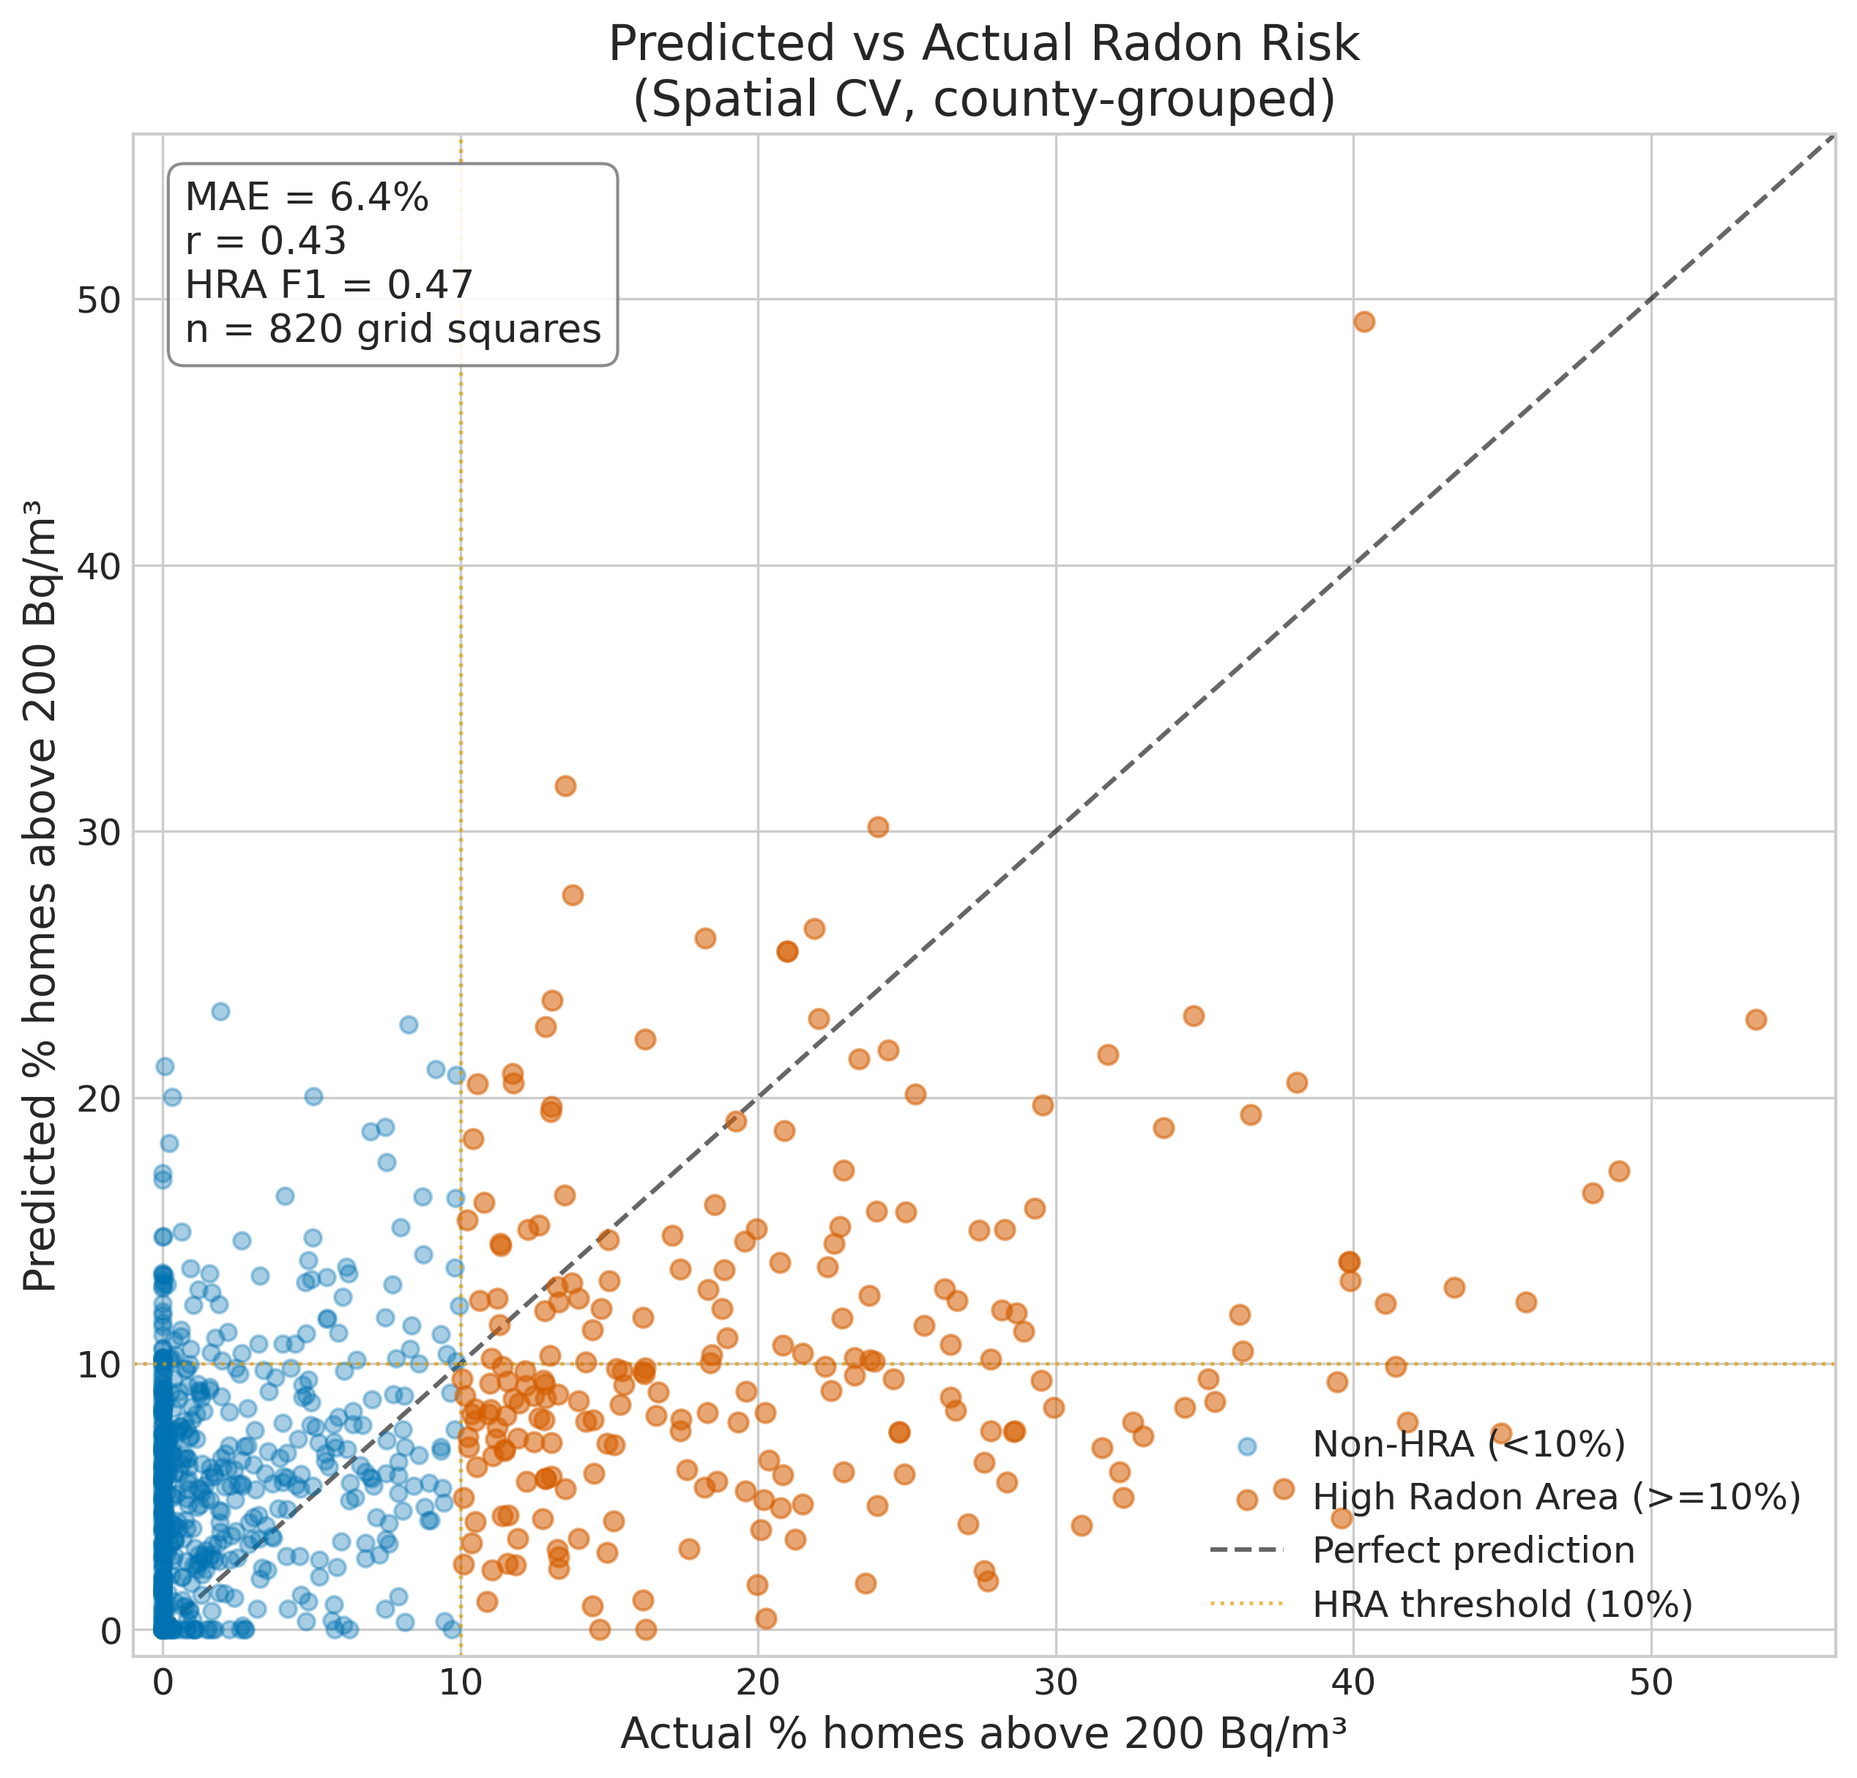
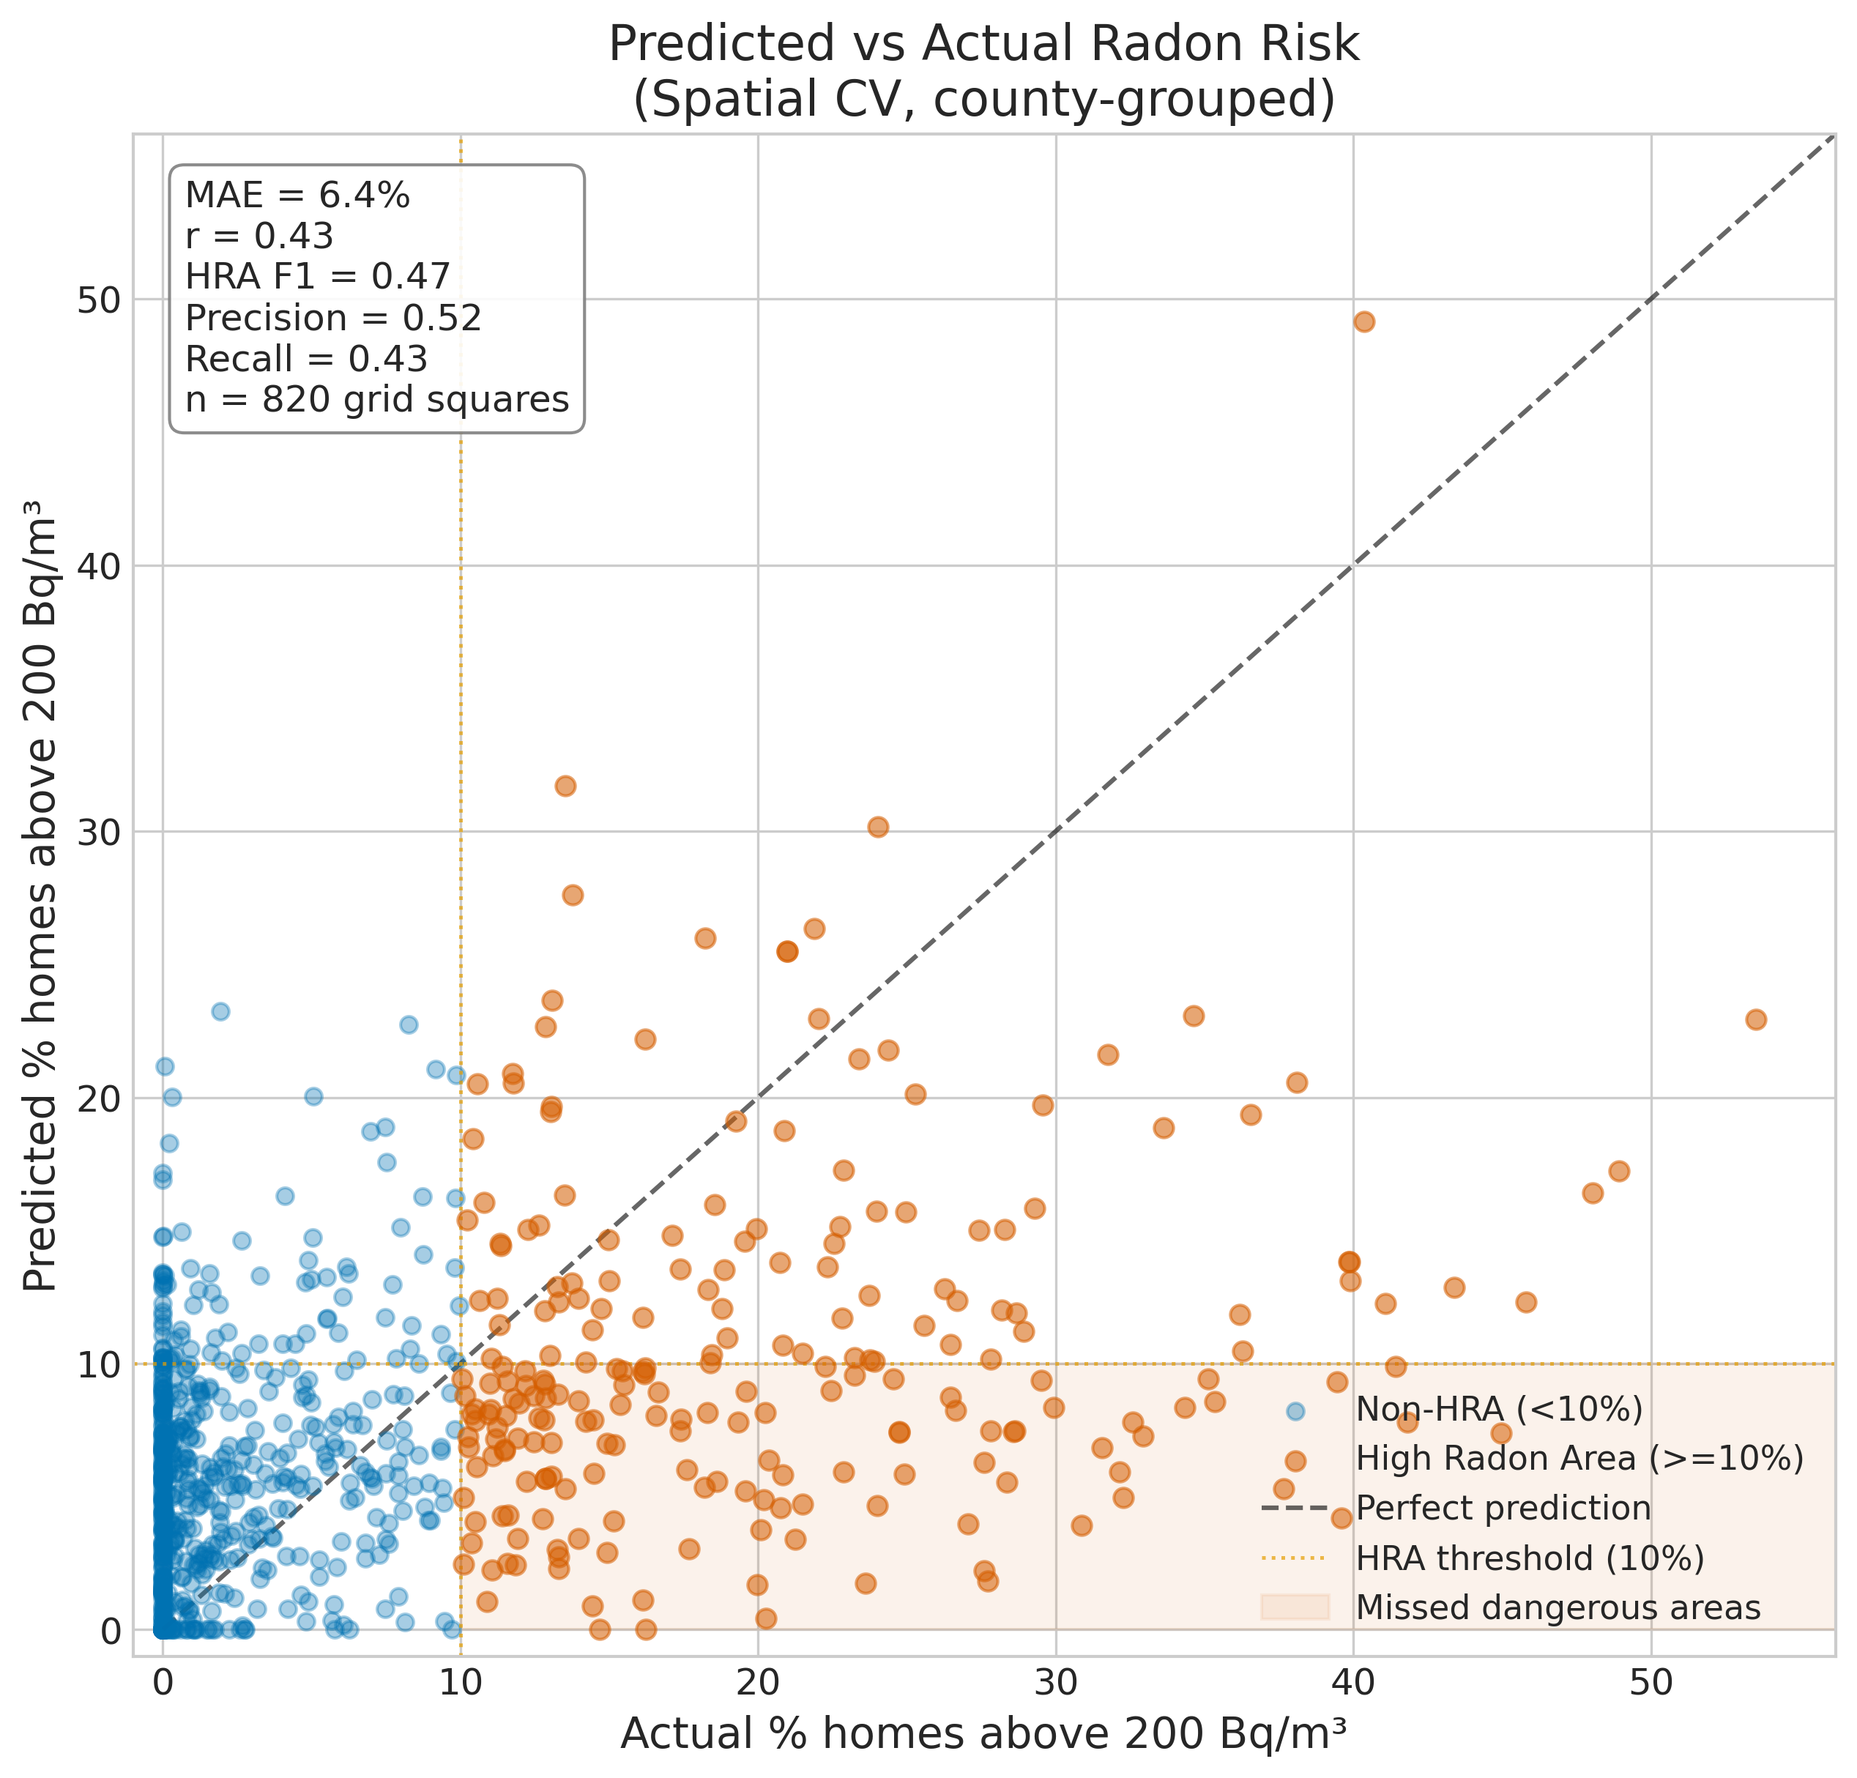
Rewrite irish-radon summary to reflect honest reviewed analysis
Summary now leads with the model's limitations (F1=0.47, misses 57% of
dangerous areas, 25pp underprediction of worst zones) rather than
presenting it as a working screening tool. Headline finding about
lithology vs radiometrics caveated as possibly confounded by degraded
Tellus data. New plots: SHAP importance, threshold sensitivity. Updated
pred_vs_actual with precision/recall stats.

Changed region(s): [[0.6542, 0.7722, 0.9657, 0.9267], [0.0935, 0.0927, 0.3427, 0.2471]]

diff --git a/content/hdr/results/irish-radon/index.md b/content/hdr/results/irish-radon/index.md
@@ -1,8 +1,8 @@
 ---
-title: "Ireland's Radon Map Misses the Most Dangerous Combination: Granite Under Glacial Soil"
+title: "Geology Can Narrow Down Ireland's Radon Problem -- But Not Yet Solve It"
 date: 2026-04-10
 weight: 4
-blurb: "Radon kills about 250 Irish people a year, but only 3 percent of homes have been tested. We trained a model on real geological data to predict which areas are most dangerous. The strongest signal is not where the most uranium is -- it is where uranium-rich granite sits beneath glacial soil that was eroded from the same granite, creating a double source that no single measurement captures."
+blurb: "Radon kills about 250 Irish people a year, but only 3 percent of homes have been tested. We trained a model on real geological data to predict which 10-kilometre grid squares are most dangerous. It finds the right geological signals -- specific limestone formations, uranium-to-thorium ratios, and granite-till combinations -- but misses 57 percent of actual High Radon Areas and systematically underpredicts the most dangerous zones by up to 25 percentage points. An honest assessment of what public geological data can and cannot tell us about indoor radon."
 domain: "Environmental Science / Public Health"
 tags: ["radon", "Ireland", "geology", "Tellus", "public-health", "spatial-prediction", "gradient-boosting", "environmental-risk"]
 ---
@@ -11,52 +11,58 @@ tags: ["radon", "Ireland", "geology", "Tellus", "public-health", "spatial-predic
 
 ## The Question
 
-Radon is an invisible, odourless radioactive gas that seeps from the ground into buildings. It causes about 250 lung cancer deaths in Ireland every year, making it the second leading cause after smoking. The government designates "High Radon Areas" on a 10-kilometre grid, but that grid is too coarse to tell individual homeowners whether they are at risk. Worse, only about 3 percent of Irish homes have ever been tested.
+Radon is an invisible, odourless radioactive gas that seeps from the ground into buildings. It causes about 250 lung cancer deaths in Ireland every year -- the second leading cause after smoking. The government designates "High Radon Areas" on a 10-kilometre grid, but only about 3 percent of Irish homes have ever been tested.
 
-We asked a simpler question first: can the geological data that the government already collects -- airborne surveys of radioactivity, maps of bedrock and glacial soils -- predict which areas are dangerous without needing to test every house?
+We asked: can publicly available geological data -- airborne radioactivity surveys, bedrock maps, glacial soil maps -- predict which grid squares are dangerous without testing every house?
 
 ## What We Found
 
-Geology alone can identify High Radon Areas with reasonable accuracy, but the most powerful signal is not the one you would expect.
+The model identifies real geological signals, but it is not accurate enough to screen for radon risk on its own.
 
-- The airborne uranium survey (where a plane flies over Ireland measuring radioactivity from 56 metres up) is only the tenth most important predictor. Knowing the specific type of rock underneath matters far more than knowing how much uranium the plane detected.
-- The single most important predictor is whether the bedrock is a particular type of Carboniferous limestone -- a marine shelf facies with high permeability from ancient cave systems. These karst features act as underground highways for radon gas.
-- The third most important predictor is a combination feature we engineered: granite bedrock overlain by granite-derived glacial till. This is the "double source" -- the granite below produces radon, and the glacial soil above it (ground up from the same granite by ice sheets) produces more radon and is permeable enough to let it through.
-- The model reduces prediction error by 12 percent compared to a simple statistical baseline, tested under strict conditions that ensure no county's data leaks into another county's prediction.
+The headline number: F1 = 0.47 for classifying High Radon Areas, with precision of 0.52 and recall of 0.43. In plain terms, the model misses 57 percent of actual High Radon Areas. It finds barely half the dangerous zones and flags a fair number of safe ones as dangerous.
 
-![Predicted versus actual radon risk across Ireland's 10-kilometre grid](plots/pred_vs_actual.png)
+The failure is worst where it matters most. For the 32 grid squares where more than 30 percent of homes exceed the reference level -- the most dangerous areas in Ireland -- the model predicts a mean of only 13 percent. It underpredicts by 25 percentage points in exactly the places where accurate warnings are most needed.
 
-## Why That's Surprising
+![Predicted versus actual radon risk. The shaded region shows dangerous areas the model misses entirely.](plots/pred_vs_actual.png)
 
-Conventional wisdom in radon science says that airborne uranium measurements are the single best predictor of indoor radon. That is true at finer scales, where a high uranium reading over your specific plot of land means you probably have high radon. But at the 10-kilometre scale used by the Irish radon map, knowing the rock type is more informative than knowing the average uranium reading across the whole grid square.
+## What the Geology Tells Us
 
-This makes physical sense once you think about it. A grid square might have high average uranium because half of it is granite and half is sandstone. But the radon risk depends on where the houses are, not on the average. The rock type tells you about the mechanisms -- limestone with caves funnels radon through preferential pathways; granite with granitic till provides a double source -- while the average uranium reading washes out the detail.
+Despite the model's limitations as a screening tool, the feature analysis reveals which geological factors correlate most strongly with radon risk. We used SHAP values (a method that assigns each feature a contribution to each prediction) rather than the cruder gain-based importance that tree models report by default. The two methods give different answers, and the difference is instructive.
 
-The granite-till interaction is the most novel finding. Glacial till is the rubble left behind by ice sheets. When ice scraped across granite and deposited the debris, it created a layer of uranium-rich soil on top of uranium-rich rock. Both produce radon, and the till is permeable enough to let it reach the surface. This combination is found in parts of Wicklow, Carlow, and Galway, where the Leinster and Galway granite batholiths are covered by their own glacial debris.
+The strongest predictors by SHAP are geographic coordinates (east-west position is the single strongest feature), the uranium-to-thorium ratio from the airborne survey, and specific bedrock formations -- particularly Carboniferous marine shelf limestone, which has moderate uranium but high permeability from ancient cave systems that act as underground highways for the gas.
 
-![The geological hierarchy of Irish radon risk](plots/headline_finding.png)
+The granite-till combination is genuinely associated with elevated radon: the 17 grid squares where granite bedrock sits under granite-derived glacial soil have mean radon rates double the national average. The physical mechanism is sound -- the granite below produces radon, and the glacial soil above (ground from the same granite by ice sheets) produces more radon and is permeable enough to let it through. But 17 observations out of 820 is too few to build a reliable prediction on, and removing this feature from the model barely changes its accuracy.
+
+An important caveat: the airborne radioactivity data we used was extracted from colour-rendered map images rather than raw measurements. This is like trying to read a thermometer from a photograph -- you get the general direction but lose the precision. The apparent finding that rock type matters more than the radioactivity signal may partly be an artifact of this degraded data. With access to the raw measurements, the radioactivity features might perform better.
+
+![Which geological features matter most, measured by SHAP values](plots/shap_importance.png)
+
+## How It Compares to Previous Work
+
+Previous Irish radon prediction studies by Elio and colleagues reported higher accuracy numbers (AUC 0.78-0.82). When we run our model under the same evaluation method they used (standard random cross-validation), we get AUC 0.83 -- comparable. The difference is that random cross-validation allows the model to train on one grid square and test on its neighbour in the same county, which inflates the score by about 10 percent because neighbouring squares share the same geology. Our county-grouped spatial cross-validation is deliberately stricter: when predicting radon in Galway, the model has never seen any data from Galway.
+
+![Threshold sensitivity: achieving 90 percent recall requires flagging 60 percent of all grid squares](plots/threshold_sensitivity.png)
 
 ## What It Means
 
-For homeowners: if your house sits on granite bedrock with granitic till subsoil, you should test for radon even if the government map does not flag your specific grid square as high risk. The combination is more dangerous than either factor alone would suggest.
+This model is not ready to guide public health decisions. But the geological patterns it finds point toward productive next steps:
 
-For the government's retrofit programme: Ireland plans to retrofit 500,000 homes for energy efficiency by 2030. Making a house more airtight is good for energy bills but can double the indoor radon concentration by reducing ventilation. Homes on the granite-till combination that undergo deep retrofits should be tested for radon before and after the work.
+First, the counties where the model is most uncertain -- Sligo, Carlow, and Louth, all at geological boundary zones -- are exactly where targeted radon measurement campaigns would be most valuable. These are areas where the 10-kilometre grid cannot capture rapid changes in rock type.
 
-For measurement campaigns: the counties where the model is least certain (Sligo, Carlow, and Louth, all at geological boundary zones) are exactly where targeted measurement would be most valuable. These are areas where the 10-kilometre grid resolution is too coarse to capture rapid changes in rock type.
+Second, the degraded airborne survey data is a solvable problem. The Geological Survey of Ireland holds the raw measurements; obtaining them would let us test whether a direct uranium measurement genuinely adds less than knowing the rock type, or whether that finding was an artifact of working with images instead of data.
 
-![The features that matter most for predicting radon risk](plots/feature_importance.png)
+Third, for Ireland's energy retrofit programme (500,000 homes by 2030), the geological features could contribute to a risk-screening checklist -- is the home on granite, is there granitic glacial soil, is the rock karstified limestone -- even if the model itself is not accurate enough to replace measurement.
 
 ## How We Did It
 
-We used five publicly available datasets: the EPA radon grid map (820 grid squares based on 63,914 home measurements), the Geological Survey Ireland Tellus airborne radiometric survey (uranium, thorium, and potassium measured at 50-metre resolution from aircraft), the all-island bedrock geology map at 1:500,000 scale, the national subsoils map with glacial deposit classifications, and county boundaries. We engineered 53 features capturing bedrock type, subsoil composition, radiometric intensity, and geology-subsoil interactions.
-
-Models were evaluated under spatial cross-validation grouped by county, meaning that when predicting radon in County Galway, the model has never seen any data from Galway during training. This is a deliberately strict test that gives honest performance estimates. No synthetic data were used at any stage. Full code and data references are in the [project repository](https://github.com/colinjoc/hdr_autoresearch/tree/master/applications/irish_radon).
+We used five publicly available datasets: the Environmental Protection Agency radon grid map (820 grid squares based on 63,914 home measurements), the Geological Survey Ireland Tellus airborne radiometric survey (uranium, thorium, and potassium), the all-island bedrock geology map, the national subsoils map, and county boundaries. We engineered 53 features and evaluated models under spatial cross-validation grouped by county. No synthetic data were used at any stage. Full code and data references are in the [project repository](https://github.com/colinjoc/hdr_autoresearch/tree/master/applications/irish_radon).
 
 ## Further Reading
 
-- EPA Ireland. "Radon Map of Ireland." (2025). [epa.ie](https://www.epa.ie/environment-and-you/radon/radon-map/) -- the official radon risk map for Ireland, based on the National Radon Survey.
+- EPA Ireland. "Radon Map of Ireland." (2025). [epa.ie](https://www.epa.ie/environment-and-you/radon/radon-map/) -- the official radon risk map for Ireland.
 - Elio J et al. "Estimation of residential radon in Ireland using geology, TELLUS radiometric data and indoor radon measurements." *Journal of Environmental Radioactivity* 249:106903 (2022). [doi:10.1016/j.jenvrad.2022.106903](https://doi.org/10.1016/j.jenvrad.2022.106903) -- the current state of the art for Irish radon prediction.
 - Roberts DR et al. "Cross-validation strategies for data with temporal, spatial, hierarchical, or phylogenetic structure." *Ecography* 40(8):913-929 (2017). [doi:10.1111/ecog.02881](https://doi.org/10.1111/ecog.02881) -- why standard cross-validation gives misleading results for spatial data.
+- Bossew P et al. "Development of a geogenic radon hazard index." *Int J Environ Res Public Health* 17(11):4134 (2020). -- European radon mapping methodology.
 
 ---
 **[HDR methodology](https://github.com/colinjoc/hdr_autoresearch)**
